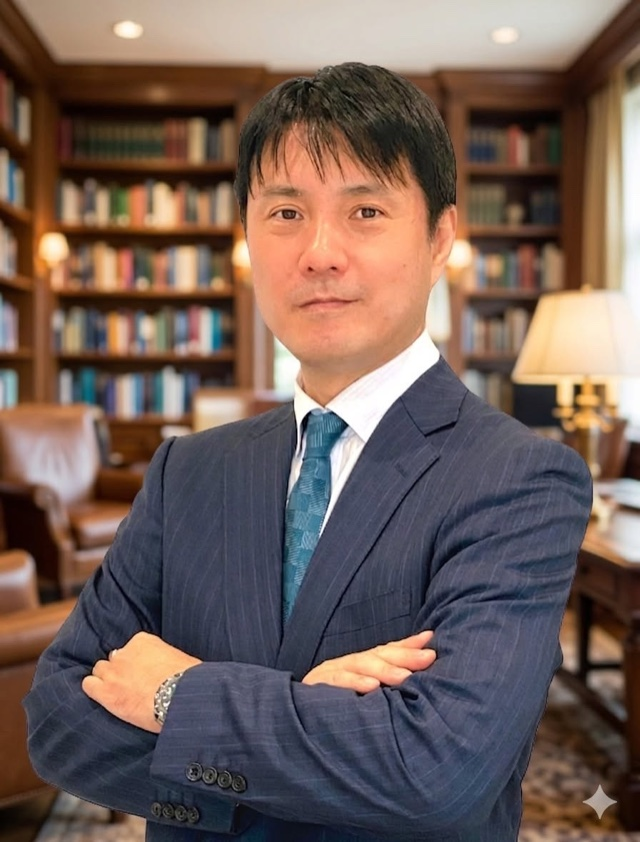
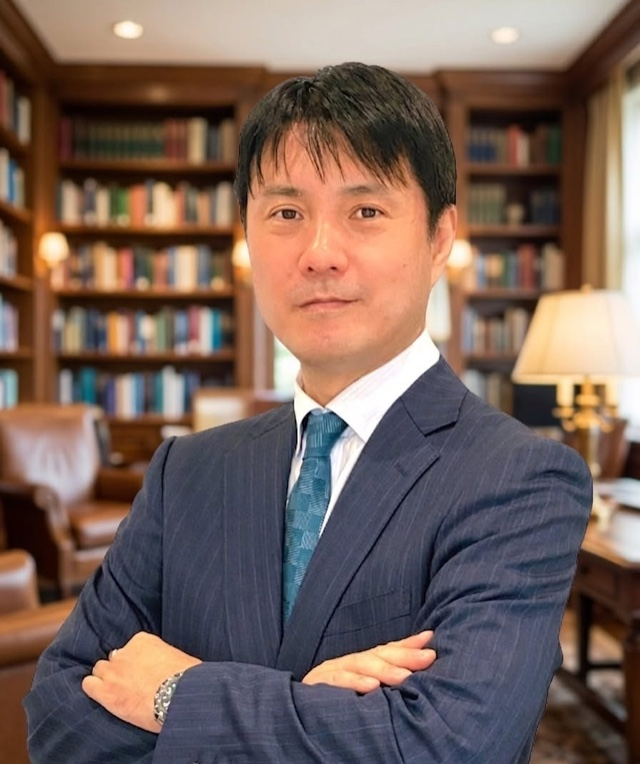
奥澤書籍の販売LP：著者写真を本人提供のものに差し替え、発送時期を追記

diff --git a/okuzawa-book-lp/index.html b/okuzawa-book-lp/index.html
@@ -24,7 +24,7 @@
 <section class="reasons-section" aria-labelledby="reasons-heading"><div class="wrap"><div class="reasons-title"><img src="assets/book-cover.jpg" alt="書籍『感情に振り回される投資からの卒業』の表紙" loading="lazy"><div><p>『感情に振り回される投資からの卒業』</p><h2 id="reasons-heading">この本を選ぶ<br>3つの理由</h2></div></div><div class="reasons-list"><article class="reason-card"><div class="reason-copy"><span class="reason-number">REASON 01</span><h3>今回は書籍代0円、送料税込550円でお届け</h3><p>投資の本を手に取るとき、自分に合うか迷うこともあります。判断の練習をまず始めていただきたいため、今回は書籍代をいただかず、送料税込550円のみでお申し込みいただけます。</p><p>お届け先のご住所を入力いただければ、紙の本をご自宅へお送りします。お支払いはクレジットカード決済の550円のみで、書籍代のご負担なくじっくりとお手元で確かめられます。</p></div><div class="reason-visual"><img src="assets/reason-price.svg" alt="書籍代0円（実質無料）、ご負担は送料税込550円のみ" loading="lazy"></div></article><article class="reason-card"><div class="reason-copy"><span class="reason-number">REASON 02</span><h3>投資心理から始め、チャートは買いの一例に絞る</h3><p>専門用語が並ぶチャート解説から入ると、途中で難しく感じることがあります。本書は積立投資や企業分析を否定せず、なぜ売買の場面で判断が揺れるのかという心の仕組みから順に進みます。</p><p>チャートの解説も現物株の買いの一例に絞り、見る目印をシンプルに整理しました。初めて目にする言葉が出てきても、巻末の用語集へ戻りながらご自身のペースで読み進められます。</p></div><div class="reason-visual"><figure><img src="assets/reason-chart-example.svg" alt="本書の図4-7。上向きの流れで一時的な下げを待つ買いの模式図" loading="lazy"><figcaption>本書の図4-7より（現物株の買いの一例）</figcaption></figure></div></article><article class="reason-card"><div class="reason-copy"><span class="reason-number">REASON 03</span><h3>読んで終わらせない、3つの記入シートを収録</h3><p>本を読んで理解したつもりでも、実際の値動きを前にすると迷いが出やすいものです。巻末には取引前の判断メモ、取引後の記録、1週間の振り返りの3つのシートを収録しています。</p><p>何を見て、何を感じ、なぜ買う・見送ると考えたのかを自分の言葉で残す練習から始められます。一人で続ける中で別の視点がほしくなった方へ、スクールの練習方法も紹介しています。</p></div><div class="reason-visual"><figure><img src="assets/reason-book-page.svg" alt="本書の図2-3。予定・気持ち・行動を分けて書く毎日の判断メモ" loading="lazy"><figcaption>本書の図2-3より</figcaption></figure></div></article></div><p class="reason-footnote">※著者の経歴・資格・実績は本人の説明に基づく情報です。本書は利益を保証するものではありません。</p></div></section>
 <section class="reader-reviews"><div class="wrap"><div class="section-title"><p class="section-kicker">EPISODES IN THE BOOK</p><h2>本書で紹介している受講生のエピソード</h2></div><div class="reviews-grid"><blockquote><strong>「複雑な指標を減らし、考え方を整理できた」</strong><p>チャート上に複雑な指標をいくつも表示して判断に迷っていた受講生Aさんの声です。考え方をシンプルに整理できた、と振り返っています。成績が改善した証明ではなく、迷いが整理されたという本人の感想として収録しています。</p><cite>本書「はじめに」・本文末注※2より要約</cite></blockquote><blockquote><strong>「自分が何に反応しているかに気づいた、2人の受講生の声」</strong><p>第3章では、心理面に向き合った受講生の感想を紹介しています。値動きを見続けてしまう自分に気づき感情の扱い方がはっきりしてきたという声や、心理面のセッション後に執着が薄れて気持ちが楽になったという声が寄せられています。いずれも本人の心についての主観的な感想であり、投資成績の改善を示すものではありません。</p><cite>本書 第3章 3-1・本文末注※3より要約</cite></blockquote><blockquote><strong>「二つの時間幅を並行して試し、自分に合う方法を探る」</strong><p>短い時間幅のスキャルピングを希望していた受講生が、講師の勧めで長めの時間幅（デイトレードからスイングトレード）と並行して試した経過です。短い方法では負けが続き、長めの方法では4か月続けて勝ったとセミナーで紹介されています。金額や回数、デモか実取引かは示されておらず、一人の経過として掲載しています。</p><cite>本書 第6章 6-3・本文末注※4より要約</cite></blockquote></div><p class="source-note">※いずれも本書および本文末注に収録された個人の感想・経過であり、投資成績の改善や将来の成果を保証するものではありません。</p></div></section>
 <section class="offer band-yellow" id="offer-last"><div class="wrap offer-grid"><div class="offer-book"><img alt="『感情に振り回される投資からの卒業』の表紙" height="1200" src="assets/book-cover.jpg" width="843"/></div><div class="offer-copy"><p class="section-kicker">DIRECTLY TO YOUR HANDS</p><h2>一歩ずつ、<br/>感情に振り回される<br/>投資からの卒業へ。</h2><p>知識を増やすことと、値動きの前で決めた条件を守ることは別の練習です。まずは一冊を手に取り、相場の見方とご自身の心を一緒に見つめる習慣を始めていただきたいため、今回は書籍代をいただかず、実質無料でお届けします。</p><p>ご負担いただくのは送料のみ、税込550円です。お支払いはクレジットカード決済にて承ります。お届け先のご住所を入力するフォームよりお申し込みください。</p><div class="offer-comparison"><span class="offer-regular">今回は、書籍代をいただきません</span><strong class="offer-special">書籍代0円（実質無料）<br/>＋ 送料のみ<span>税込550円</span></strong></div><a class="cta" href="#offer">送料のみ・税込550円で本を受け取る <span>→</span></a><p class="payment-note">お支払いはクレジットカードで承ります。ボタンを押すと、ページ上部のお届け先の入力欄へ移動します。</p></div></div></section>
-<section class="faq band-white"><div class="wrap narrow"><div class="section-title center"><p class="section-kicker">QUESTIONS</p><h2>よくあるご質問</h2></div><details><summary>チャートを見たことがなくても読めますか？</summary><p>はい。チャートの知識がない方でも読み進められるよう、第1章から第3章では判断が揺れる心理と心の整え方から順番に扱います。第4章以降で新しい用語が増えたときも、一度に暗記する必要はなく、巻末の用語集へ戻りながら確認できます。</p></details><details><summary>積立投資や企業分析をやめる必要がありますか？</summary><p>いいえ。長期・積立・分散投資や、企業の業績を調べるファンダメンタルズ分析は資産形成の大切な方法です。本書はそれらを否定せず、自分で売買の時期も判断したい方に向けて、価格の動きを確かめる見方を加える一冊です。</p></details><details><summary>FXの実取引や、売りから入る手法も学べますか？</summary><p>本書で詳しく扱う売買例は、現物株の買いの一例です。FXの実取引や売りから入る手順を網羅した本ではありません。なお、著者のスクールでは値動きの観察やデモ練習の題材としてFXのチャートも使っていると本文で紹介しています。</p></details><details><summary>1日10分で、分析から取引まですべて終わりますか？</summary><p>いいえ。「10ミニッツ」は、前もって選んだ対象と条件を朝の10分を目安に確かめる考え方です。学習や事前の準備、損失額の計算、注文手続き、取引後の振り返りまで含めて10分で終わるという意味ではありません。</p></details><details><summary>この本を読めば、利益が出るようになりますか？</summary><p>本書は利益や勝率を保証する本ではありません。相場には元本割れを含む損失の可能性があります。投資心理、チャートの見方、買う前の損失管理、記録と振り返りという一般的な学習情報をまとめ、ご自身の判断を整える助けとなることを目指しています。</p></details><details><summary>なぜ書籍代が0円で、送料のみなのですか？</summary><p>まずは多くの投資家の方に本書を読んでいただき、相場の見方と自分の心を言葉にして振り返る練習を始めていただきたいと考えているためです。そのため今回は書籍代をいただかず、送料税込550円のみご負担いただく形でお届けしています。</p></details><details><summary>支払い方法とお申し込み方法を教えてください。</summary><p>お支払いは送料税込550円のみで、クレジットカード決済のみ承っております。本ページ内のお申し込みフォームに、お届け先のご住所など必要事項をご入力のうえお申し込みください。</p></details></div></section>
+<section class="faq band-white"><div class="wrap narrow"><div class="section-title center"><p class="section-kicker">QUESTIONS</p><h2>よくあるご質問</h2></div><details><summary>チャートを見たことがなくても読めますか？</summary><p>はい。チャートの知識がない方でも読み進められるよう、第1章から第3章では判断が揺れる心理と心の整え方から順番に扱います。第4章以降で新しい用語が増えたときも、一度に暗記する必要はなく、巻末の用語集へ戻りながら確認できます。</p></details><details><summary>積立投資や企業分析をやめる必要がありますか？</summary><p>いいえ。長期・積立・分散投資や、企業の業績を調べるファンダメンタルズ分析は資産形成の大切な方法です。本書はそれらを否定せず、自分で売買の時期も判断したい方に向けて、価格の動きを確かめる見方を加える一冊です。</p></details><details><summary>FXの実取引や、売りから入る手法も学べますか？</summary><p>本書で詳しく扱う売買例は、現物株の買いの一例です。FXの実取引や売りから入る手順を網羅した本ではありません。なお、著者のスクールでは値動きの観察やデモ練習の題材としてFXのチャートも使っていると本文で紹介しています。</p></details><details><summary>1日10分で、分析から取引まですべて終わりますか？</summary><p>いいえ。「10ミニッツ」は、前もって選んだ対象と条件を朝の10分を目安に確かめる考え方です。学習や事前の準備、損失額の計算、注文手続き、取引後の振り返りまで含めて10分で終わるという意味ではありません。</p></details><details><summary>この本を読めば、利益が出るようになりますか？</summary><p>本書は利益や勝率を保証する本ではありません。相場には元本割れを含む損失の可能性があります。投資心理、チャートの見方、買う前の損失管理、記録と振り返りという一般的な学習情報をまとめ、ご自身の判断を整える助けとなることを目指しています。</p></details><details><summary>なぜ書籍代が0円で、送料のみなのですか？</summary><p>まずは多くの投資家の方に本書を読んでいただき、相場の見方と自分の心を言葉にして振り返る練習を始めていただきたいと考えているためです。そのため今回は書籍代をいただかず、送料税込550円のみご負担いただく形でお届けしています。</p></details><details><summary>本はいつ届きますか？</summary><p>ご購入（決済完了）から3営業日以内に、ご入力いただいたご住所へ発送いたします。沖縄・離島などへのお届けは、それより遅くなる場合があります。</p></details><details><summary>支払い方法とお申し込み方法を教えてください。</summary><p>お支払いは送料税込550円のみで、クレジットカード決済のみ承っております。本ページ内のお申し込みフォームに、お届け先のご住所など必要事項をご入力のうえお申し込みください。</p></details></div></section>
 <section aria-labelledby="company-heading" class="company-section" id="company"><div class="company-title"><h2 id="company-heading">運営スクールと講師</h2></div><div class="wrap company-content"><div class="company-story"><div class="company-copy"><p class="section-kicker">ABOUT THE SCHOOL</p><h3>どさんこ投資スクール</h3><p>著者・奥澤智宏が代表講師を務める「どさんこ投資スクール」は、北海道発・完全オンラインの心理特化型投資スクールです。大阪で10年以上続いた「大阪FX教室」を前身とし、現在は株式・FX・ゴールドを扱いながら、相場の見方と判断する心のあり方を一緒に学ぶ場をつくっています。</p><p>本書の巻末でも紹介しているとおり、スクールでは過去のチャートを使い、買い・売り・見送りの理由や分からない点を言葉にして、講師からフィードバックを受ける練習を大切にしています。練習やフィードバックは利益を約束するものではありませんが、一人で気づきにくい判断の曖昧さを見直す助けになります。</p></div><div class="company-brand-panel"><div class="company-brand-visual"><span class="company-wordmark">どさんこ投資スクール</span><span class="company-brand-small">Psychology × Technical</span></div><p>相場の見方と、判断する心を一緒に学ぶ。</p></div></div><div class="company-detail"><div class="company-detail-book"><img src="assets/book-cover.jpg" alt="『感情に振り回される投資からの卒業』の書影" loading="lazy"/></div><div class="company-table-block"><h3>スクール概要</h3><dl class="company-table"><div class="company-row"><dt>名称</dt><dd>どさんこ投資スクール</dd></div><div class="company-row"><dt>代表講師</dt><dd>奥澤 智宏（投資心理カウンセラー）</dd></div><div class="company-row"><dt>所在地</dt><dd>〒060-0006 北海道札幌市中央区北6条西20丁目2-24-303</dd></div><div class="company-row"><dt>事業内容</dt><dd>心理特化型の投資スクール（完全オンライン）</dd></div><div class="company-row"><dt>沿革</dt><dd>大阪で10年以上続いた「大阪FX教室」を前身とする</dd></div><div class="company-row"><dt>ウェブサイト</dt><dd>wellness-toushi.jp</dd></div></dl></div></div><div class="instructor"><figure class="instructor-photo"><img src="assets/author-okuzawa.jpg" alt="どさんこ投資スクール 代表講師 奥澤智宏" loading="lazy"/></figure><div class="instructor-copy"><p class="section-kicker">INSTRUCTOR</p><h3>運営講師　奥澤 智宏<small>（おくざわ ともひろ）</small></h3><p class="instructor-role">どさんこ投資スクール 代表講師／投資心理カウンセラー</p><ul class="instructor-list"><li>東北大学大学院修了。パナソニックで研究職として勤務していた時代に、リーマンショックで650万円を失う経験をする</li><li>2014年に会社員を辞め、投資の道へ</li><li>テクニカルアナリスト（CFTe®）</li><li>心理学検定1級</li><li>JAPAN MENSA 会員</li><li>海外トレード大会で4年連続入賞（10位以内）</li><li>累計指導数 2,000名</li></ul><blockquote class="instructor-quote">「大儲けすることを諦めたとき、資産が増えるようになった」<cite>奥澤智宏</cite></blockquote><p class="instructor-note">※経歴・資格・実績は本人の説明（第48期セミナー資料）に基づく情報で、読者の将来の投資成果を示すものではありません。</p></div></div></div></section>
 <section aria-labelledby="closing-order-heading" class="closing-order"><div class="wrap closing-order-inner"><p class="section-kicker">THE BOOK, FROM THE AUTHOR</p><h2 id="closing-order-heading">『感情に振り回される投資からの卒業』を、<br/>あなたのお手元へ。</h2><p>次に相場が動いたとき、何を見て、どう判断するか。相場の見方と自分の心の両方を学ぶ一冊を、今回は書籍代0円（実質無料）・送料税込550円のみでお届けします。お支払いはクレジットカードのみ、お届け先のご住所をご入力のうえお申し込みください。</p><div class="offer-comparison"><span class="offer-regular">今回は、書籍代をいただきません</span><strong class="offer-special">書籍代0円（実質無料）<br/>＋ 送料のみ<span>税込550円</span></strong></div><a class="cta" href="#offer">送料のみ・税込550円で本を受け取る <span>→</span></a><p class="payment-note">お支払いはクレジットカードで承ります。</p></div></section>
 </main>

diff --git a/okuzawa-book-lp/tokusho.html b/okuzawa-book-lp/tokusho.html
@@ -9,5 +9,5 @@ p,li{font-size:.95rem}ol,ul{padding-left:1.4em}a{color:#2f4b7c}.back{display:inl
 footer{text-align:center;font-size:.78rem;color:#4f5b6c;padding:20px}footer a{margin:0 8px}
 @media(max-width:600px){dl div{grid-template-columns:1fr}dt{padding:9px 12px 4px}dd{padding:4px 12px 12px}}</style></head>
 <body><header class="lg-head"><span style="display:block;width:180px;color:#f3e7cc"><svg xmlns="http://www.w3.org/2000/svg" viewBox="0 0 250 64" role="img" aria-label="リード出版"><g fill="none" stroke="currentColor" stroke-width="3"><circle cx="32" cy="32" r="27"/></g><text x="32" y="44" text-anchor="middle" font-family="Georgia,'Times New Roman',serif" font-size="36" font-weight="700" fill="currentColor">L</text><text x="72" y="43" font-family="'Yu Mincho','Hiragino Mincho ProN',serif" font-size="30" font-weight="700" letter-spacing="4" fill="currentColor">リード出版</text></svg></span></header>
-<main><h1>特定商取引法に基づく表記</h1><p class="updated">対象商品：書籍『感情に振り回される投資からの卒業』（奥澤智宏 著／リード出版）</p><h2>事業者情報</h2><dl><div><dt>販売事業者名</dt><dd>株式会社ザ・リード</dd></div><div><dt>運営統括責任者</dt><dd>代表取締役　邑﨑恵理</dd></div><div><dt>設立</dt><dd>2013年7月</dd></div><div><dt>所在地</dt><dd>〒107-0062<br/>東京都港区南青山2丁目2番15号 ウィン青山1302</dd></div><div><dt>電話番号</dt><dd>03-6869-2426</dd></div><div><dt>FAX</dt><dd>03-6730-9476</dd></div><div><dt>メールアドレス</dt><dd>info@the-lead1.com</dd></div><div><dt>ホームページ</dt><dd><a href="https://the-lead1.com/">https://the-lead1.com/</a></dd></div></dl><h2>著者</h2><dl><div><dt>著者名</dt><dd>奥澤 智宏（おくざわ ともひろ）</dd></div><div><dt>所属</dt><dd>どさんこ投資スクール 代表講師</dd></div></dl><h2>お取引について</h2><dl><div><dt>販売価格</dt><dd>書籍代 0円</dd></div><div><dt>商品代金以外の必要金額</dt><dd>送料 550円（税込）。お支払いの総額は550円（税込）です。</dd></div><div><dt>お支払い方法</dt><dd>クレジットカード</dd></div><div><dt>お支払い時期</dt><dd>お申し込み時に決済いたします。</dd></div><div><dt>商品のお届け方法・時期</dt><dd>決済完了後、ご入力いただいたご住所へ書籍を発送いたします。</dd></div><div><dt>返品・交換</dt><dd>お客様のご都合による返品・交換は承っておりません。破損・落丁・乱丁などの不良品が届いた場合は、上記のメールアドレスまでご連絡ください。良品と交換いたします。</dd></div><div><dt>免責事項</dt><dd>本書は投資の学習のための一般的な情報です。特定の銘柄の売買を勧めるものではなく、利益や効果を保証するものではありません。投資には元本割れを含む損失の可能性があります。</dd></div></dl><a class="back" href="index.html">← 書籍のご案内に戻る</a></main>
+<main><h1>特定商取引法に基づく表記</h1><p class="updated">対象商品：書籍『感情に振り回される投資からの卒業』（奥澤智宏 著／リード出版）</p><h2>事業者情報</h2><dl><div><dt>販売事業者名</dt><dd>株式会社ザ・リード</dd></div><div><dt>運営統括責任者</dt><dd>代表取締役　邑﨑恵理</dd></div><div><dt>設立</dt><dd>2013年7月</dd></div><div><dt>所在地</dt><dd>〒107-0062<br/>東京都港区南青山2丁目2番15号 ウィン青山1302</dd></div><div><dt>電話番号</dt><dd>03-6869-2426</dd></div><div><dt>FAX</dt><dd>03-6730-9476</dd></div><div><dt>メールアドレス</dt><dd>info@the-lead1.com</dd></div><div><dt>ホームページ</dt><dd><a href="https://the-lead1.com/">https://the-lead1.com/</a></dd></div></dl><h2>著者</h2><dl><div><dt>著者名</dt><dd>奥澤 智宏（おくざわ ともひろ）</dd></div><div><dt>所属</dt><dd>どさんこ投資スクール 代表講師</dd></div></dl><h2>お取引について</h2><dl><div><dt>販売価格</dt><dd>書籍代 0円</dd></div><div><dt>商品代金以外の必要金額</dt><dd>送料 550円（税込）。お支払いの総額は550円（税込）です。</dd></div><div><dt>お支払い方法</dt><dd>クレジットカード</dd></div><div><dt>お支払い時期</dt><dd>お申し込み時に決済いたします。</dd></div><div><dt>商品のお届け方法・時期</dt><dd>ご購入（決済完了）から3営業日以内に、ご入力いただいたご住所へ書籍を発送いたします。ただし、沖縄・離島などへのお届けは、それより遅くなる場合があります。</dd></div><div><dt>返品・交換</dt><dd>お客様のご都合による返品・交換は承っておりません。破損・落丁・乱丁などの不良品が届いた場合は、上記のメールアドレスまでご連絡ください。良品と交換いたします。</dd></div><div><dt>免責事項</dt><dd>本書は投資の学習のための一般的な情報です。特定の銘柄の売買を勧めるものではなく、利益や効果を保証するものではありません。投資には元本割れを含む損失の可能性があります。</dd></div></dl><a class="back" href="index.html">← 書籍のご案内に戻る</a></main>
 <footer><a href="tokusho.html">特定商取引法に基づく表記</a><a href="privacy.html">プライバシーポリシー</a><br/>Copyright © 2013-2026 株式会社ザ・リード. All Rights Reserved.</footer></body></html>
